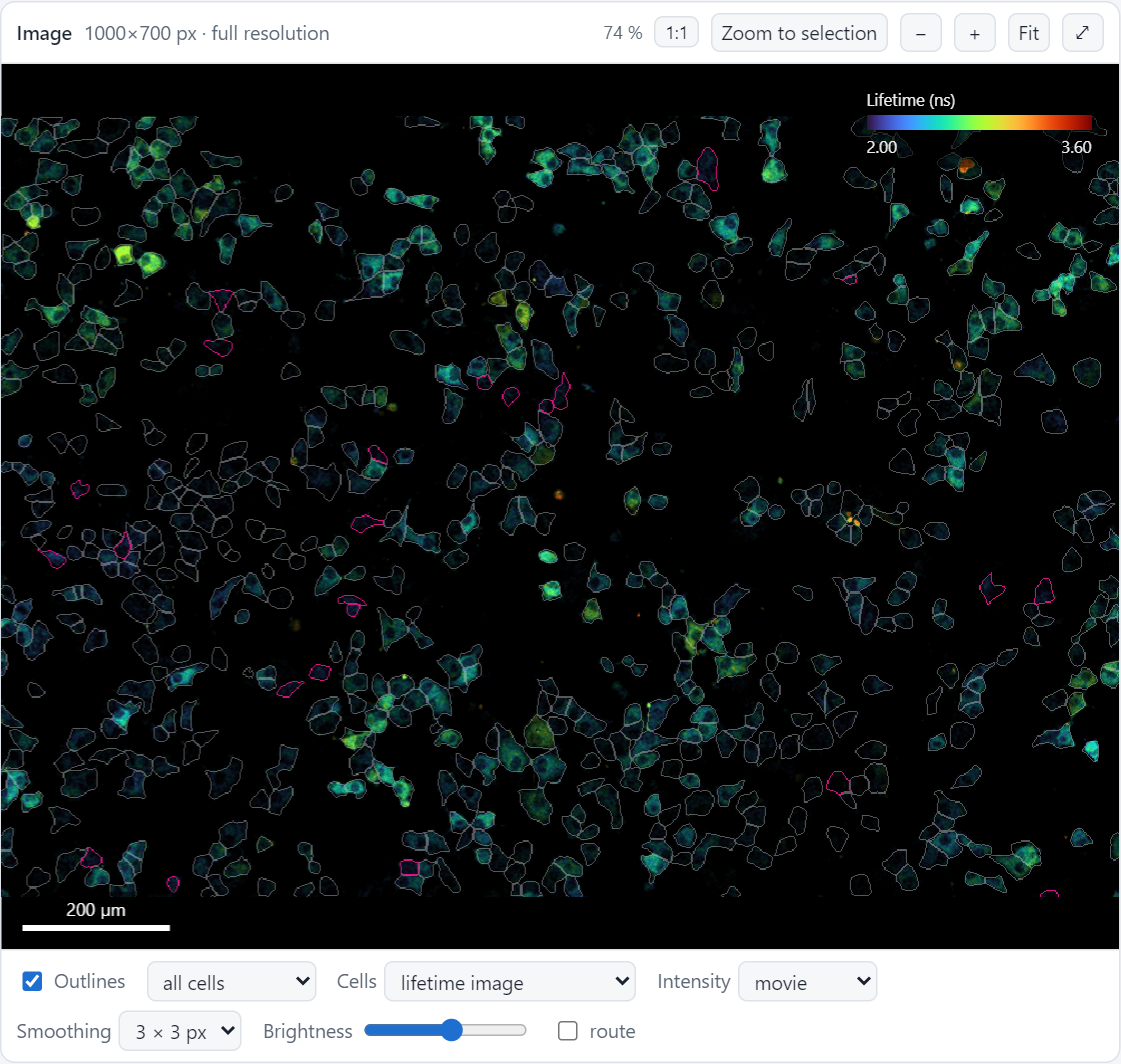
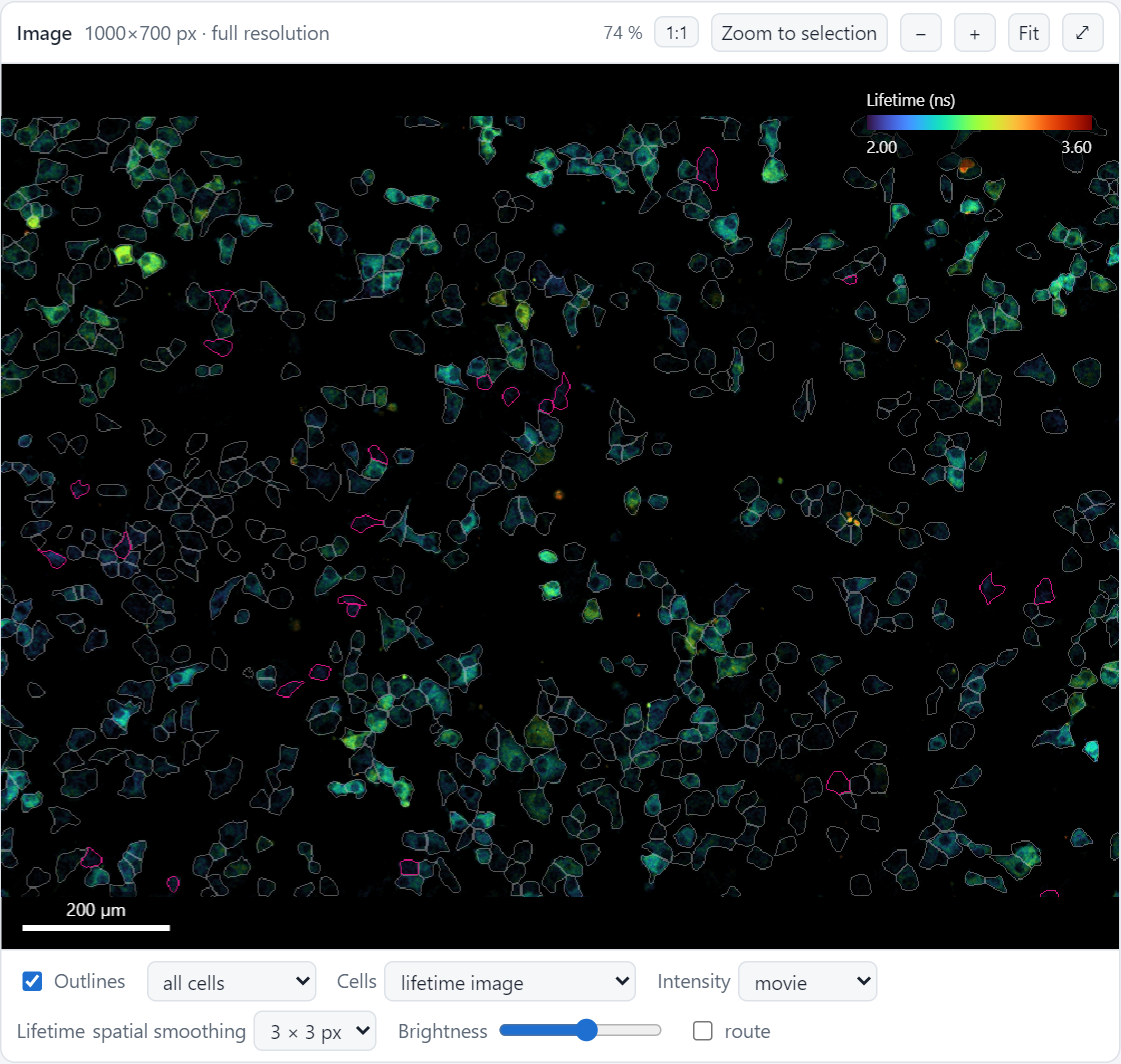
Dashboard: 'time smoothing' (Timing) and 'Lifetime/Ratio/Intensity spatial smoothing' (under the image), a note in the image when time smoothing is on; settings: both in one Smoothing group, the same names and steps; re-apply keeps the gates, criteria and colour range of a sample of another image ty

Changed region(s): [[0.0, 0.9615, 0.5932, 0.9925], [0.6557, 0.9615, 0.6869, 0.9925]]

diff --git a/src/fast_hippos/templates/dashboard/page.html b/src/fast_hippos/templates/dashboard/page.html
@@ -49,7 +49,7 @@
           <label title="Frames skipped between the stimulation or calibration and the window">margin <input id="rm" type="number" min="0" step="1" class="w3"></label>
         </div>
         <div class="row">
-          <label class="slider" title="Average each trace over neighbouring frames to reduce noise: radius in frames (1 = average of 3 frames). Used for the metrics and the smoothed traces">smoothing <input id="sm" type="range" min="0" max="10" step="1"><span id="smv" class="val"></span></label>
+          <label class="slider" title="Average over neighbouring frames to reduce noise: ± this number of frames (1 = the mean of 3 frames). Used for the metrics, the smoothed traces and the colours of the image (while the traces show the smoothed values)">time smoothing <input id="sm" type="range" min="0" max="10" step="1"><span id="smv" class="val"></span></label>
           <label class="slider" title="Rise time = number of frames until a cell reaches this fraction of its maximal response (used by the rise_time_frames metric)">rise <input id="rf" type="range" min="0.5" max="0.95" step="0.05"><span id="rfv" class="val"></span></label>
         </div>
       </div>
@@ -90,9 +90,9 @@
       <div id="loading"></div></div>
     <div class="panel-f">
       <label title="Show or hide the cell outlines (O)"><input type="checkbox" id="voutl" checked> Outlines</label><select id="outl" title="Which cell outlines are drawn: only the selected cells, the hits, or all cells"><option value="none">selection only</option><option value="hits">hits</option><option value="all">all cells</option></select>
-      <label title="Fill every cell with a colour for one of its values (e.g. its response), to see spatial patterns. Off = the lifetime image itself">Cells <select id="vfill"></select></label>
+      <label title="Fill every cell with a colour for one of its values (e.g. its response), to see spatial patterns. The first choice = the image itself">Cells <select id="vfill"></select></label>
       <label title="Brightness from the current frame (movie) or from the average over all frames (projection, less noisy)">Intensity <select id="isrc"><option value="movie">movie</option><option value="projection">projection</option></select></label>
-      <label title="Spatial smoothing of the lifetime colours (the brightness stays sharp): the mean over a square of pixels around each pixel, which makes the colours less noisy. Over time the image is smoothed as the traces are (Smooth traces under Timing, while the traces show the smoothed values). Only for display: the cell values do not change.">Smoothing <select id="vsmooth"><option value="0">off</option><option value="1">3 × 3 px</option><option value="2">5 × 5 px</option><option value="3">7 × 7 px</option></select></label>
+      <label title="Spatial smoothing of the lifetime colours (the brightness stays sharp): the mean over a square of pixels around each pixel, which makes the colours less noisy. Over time the image is smoothed as the traces are (Smooth traces under Timing, while the traces show the smoothed values). Only for display: the cell values do not change."><span id="vsmoothl">Lifetime</span> spatial smoothing <select id="vsmooth"><option value="0">off</option><option value="1">3 × 3 px</option><option value="2">5 × 5 px</option><option value="3">7 × 7 px</option></select></label>
       <label class="slider" title="Brightness of the image">Brightness <input id="bright" type="range" min="-1" max="1.2" step="0.01" value="0.2"></label>
       <label title="Draw the stage route of the .rgn files over the image"><input id="vroute" type="checkbox"> route</label>
     </div>

diff --git a/src/fast_hippos/templates/gui.html b/src/fast_hippos/templates/gui.html
@@ -275,7 +275,7 @@ function widget(f) {
     case "int": return num("1");
     case "float": return num("any");
     case "boolselect": return `<select id="${id}">${Object.entries(f.choices).map(([k, l]) => `<option value="${k}" ${String(!!v) === k ? "selected" : ""}>${esc(l)}</option>`).join("")}</select>`;
-    case "select": return `<select id="${id}">${Object.entries(f.choices).map(([k, l]) => `<option value="${esc(k)}" ${same(k, v) ? "selected" : ""}>${esc(l)}</option>`).join("")}</select>`;
+    case "select": return `<select id="${id}">${Object.entries(f.choices).map(([k, l]) => `<option value="${esc(k)}" ${same(k, v) || (f.num && +k === +v) ? "selected" : ""}>${esc(l)}</option>`).join("")}</select>`;
     case "frame": {
       const ff = fileFacts(), max = Number.isFinite(ff.frames) ? ff.frames - 1 : "";
       return `<div class="row"><input id="${id}" type="number" step="1" min="0" max="${max}" value="${v ?? ""}" placeholder="automatic" data-num="int"><span class="muted">${max !== "" ? "0–" + max : ""}</span></div>`;
@@ -558,6 +558,7 @@ function readInput(el) {
     v = a === "" && b === "" ? null : [a === "" ? null : +a, b === "" ? null : +b];
   } else if (f.kind === "intlist") v = el.value.trim() ? el.value.split(/[,\s]+/).filter(Boolean).map(Number) : null;
   else if (f.kind === "model") v = el.tagName === "SELECT" ? (el.value === "__custom" ? "" : el.value) : el.value;
+  else if (f.num && f.kind === "select") v = +el.value;
   else if (el.dataset.num) v = el.value === "" ? (f.optional ? null : f.default) : (el.dataset.num === "int" ? parseInt(el.value, 10) : parseFloat(el.value));
   else v = el.value === "" && f.optional ? null : el.value;
   set(f.key, v);
@@ -726,11 +727,14 @@ $("bNewSample").onclick = () => {
 $("bReapplyAll").onclick = async () => {
   let x; try { x = await api("experiment", { path: S.input.experiment, settings: S }); } catch (e) { toast(e.message, 6000); return; }
   if (!x.samples.length) { toast("No samples (runs) in the experiment folder", 5000); return; }
+  const otherType = Object.entries(x.differs || {}).filter(([, ks]) => ks.includes("input.modality")).map(([n]) => n);
   if (!confirm(`Re-apply to all ${plural(x.samples.length, "sample")} of the experiment in\n${S.input.experiment}:\n\n`
       + bulletList(x.samples.map(s => s.name + (s.label ? ` (${s.label})` : "")), 20) + "\n\nThe stimulation, screening and display settings "
       + "of this window are used for every sample (except the dashboard size and tiles and the stage positions file, "
       + "which only change with a new run). Each sample keeps its own images, segmentation and traces, its sample label and the "
-      + "own settings of its single images. Then the experiment overview is updated.\n\nContinue?")) return;
+      + "own settings of its single images. Then the experiment overview is updated."
+      + (otherType.length ? `\n\nOf another image type than this window: ${otherType.join(", ")}. They keep their quality gates, hit criteria and colour range (in the units of their values).` : "")
+      + "\n\nContinue?")) return;
   let r; try { r = await api("run", { settings: S, experiment: true }); } catch (e) { toast(e.message, 6000); return; }
   JOB = { n: 0, state: "running", run_id: r.run_id }; $("log").innerHTML = ""; $("results").innerHTML = "";
 };

diff --git a/src/fast_hippos/templates/dashboard/viewer.js b/src/fast_hippos/templates/dashboard/viewer.js
@@ -271,6 +271,16 @@ function drawViewerHov() {
   if (S.showRoute && SCR.route) drawRoute(x);
   if (D.pixel_size) drawScaleBar(x, w, h);  // always
   drawLocator(x, w, h);
+  drawTimeNote(x, w, h);
+}
+// the image is smoothed over time with the traces (Timing, far from the image): say so in the image
+function drawTimeNote(x, w, h) {
+  const r = Math.floor(SCR.params.smooth_traces || 0);
+  if (!(r > 0) || S.tsrc !== "smoothed" || V.smoothed_xy === null || V.smoothed_xy === undefined) return;
+  const t = `time smoothing ± ${r} frame${r === 1 ? "" : "s"}`;
+  x.font = "11px system-ui"; const tw = x.measureText(t).width;
+  x.fillStyle = "rgba(0,0,0,.45)"; x.fillRect(w - tw - 18, h - 24, tw + 10, 17);
+  x.fillStyle = "rgba(255,255,255,.8)"; x.textAlign = "right"; x.fillText(t, w - 13, h - 12); x.textAlign = "start";
 }
 // where the view is in the image, when zoomed in: the whole image as a small frame, the visible part inside it
 function drawLocator(x, w, h) {
@@ -402,6 +412,7 @@ function initViewer() {
   $("voutl").onchange = () => { S.showOutl = $("voutl").checked; $("outl").disabled = !S.showOutl; invalidate("viewerSel"); };
   $("isrc").onchange = () => { S.isrc = $("isrc").value; imageChanged(); };
   $("vsmooth").value = String(S.smoothxy);
+  $("vsmoothl").textContent = D.is_lifetime ? "Lifetime" : String(D.unit).startsWith("Ratio") ? "Ratio" : "Intensity";
   $("vsmooth").onchange = () => { S.smoothxy = +$("vsmooth").value; imageChanged(); };
   if (V.smoothed_xy === null || V.smoothed_xy === undefined) {  // an older run: the smoothing is in the data
     $("vsmooth").disabled = true; $("vsmooth").closest("label").title = "This dashboard was made by an older version, with the smoothing of the run "
@@ -409,7 +420,7 @@ function initViewer() {
   }
   $("bright").oninput = () => { S.bright = Math.pow(10, +$("bright").value); imageChanged(); };
   $("vroute").checked = S.showRoute; $("vroute").onchange = () => { S.showRoute = $("vroute").checked; invalidate("viewerHov"); };
-  const fm = $("vfill"); fm.add(new Option("lifetime image", "")); METRIC_KEYS.forEach(k => fm.add(new Option(k, k)));
+  const fm = $("vfill"); fm.add(new Option(`${$("vsmoothl").textContent.toLowerCase()} image`, "")); METRIC_KEYS.forEach(k => fm.add(new Option(k, k)));
   fm.onchange = () => { S.fillMetric = fm.value; fillsChanged(); };
   $("v100").onclick = () => { const r = vwrap.getBoundingClientRect(); zoomAt(r.width / 2, r.height / 2, 1 / viewTarget().s); };
   hitRGB = hexToRgb(css("--hit"));

diff --git a/src/fast_hippos/templates/dashboard/screenui.js b/src/fast_hippos/templates/dashboard/screenui.js
@@ -155,7 +155,7 @@ function fillParams() {
   if (full) p.response_window = null;
   setWinMode(full ? "full" : "n"); $("rw").value = full ? 3 : p.response_window; $("rw").disabled = full;
   setAnchor(p.response_window_anchor); $("rm").value = p.response_window_margin;
-  $("sm").value = p.smooth_traces; $("smv").textContent = p.smooth_traces ? `r = ${p.smooth_traces}` : "off";
+  $("sm").value = p.smooth_traces; $("smv").textContent = p.smooth_traces ? `± ${p.smooth_traces}` : "off";
   $("rf").value = p.rise_time_fraction; $("rfv").textContent = `${Math.round(p.rise_time_fraction * 100)} %`;
   document.querySelectorAll(".gunit").forEach(e => { e.textContent = D.is_lifetime ? "ns" : ""; });
   const seed = gateSeed();
@@ -179,7 +179,7 @@ function initScreening() {
   $("evauto").onclick = () => { Object.assign(e, structuredClone(D.screen.events)); eventsTouched = false; fillEventInputs(); recompute(); };
   $("rw").oninput = () => { if (p.response_window > 0) { p.response_window = Math.max(1, numOrNull($("rw")) ?? 3); scheduleRecompute(); } };
   $("rm").oninput = () => { p.response_window_margin = Math.max(0, numOrNull($("rm")) ?? 0); scheduleRecompute(); };
-  $("sm").oninput = () => { p.smooth_traces = +$("sm").value; $("smv").textContent = p.smooth_traces ? `r = ${p.smooth_traces}` : "off"; if (p.smooth_traces > 0) { S.tsrc = "smoothed"; $("tsrc").value = "smoothed"; } scheduleRecompute(); };
+  $("sm").oninput = () => { p.smooth_traces = +$("sm").value; $("smv").textContent = p.smooth_traces ? `± ${p.smooth_traces}` : "off"; if (p.smooth_traces > 0) { S.tsrc = "smoothed"; $("tsrc").value = "smoothed"; } scheduleRecompute(); };
   $("rf").oninput = () => { p.rise_time_fraction = +$("rf").value; $("rfv").textContent = `${Math.round(p.rise_time_fraction * 100)} %`; scheduleRecompute(); };
   const readGates = () => {
     const seed = gateSeed();

diff --git a/src/fast_hippos/templates/dashboard/style.css b/src/fast_hippos/templates/dashboard/style.css
@@ -24,7 +24,7 @@ main { display: grid; gap: 12px; padding: 12px 16px 24px;
 #vbar { position: absolute; right: 10px; top: 10px; background: rgba(0,0,0,.55); padding: 6px 8px; border-radius: 6px; color: #eee; font-size: 11px; pointer-events: none; }
 #vbar canvas { position: static; display: block; width: 150px; height: 10px; margin: 3px 0; }
 #vbar .ends { display: flex; justify-content: space-between; }
-#loading { position: absolute; right: 10px; bottom: 10px; color: #ddd; font-size: 11px; background: rgba(0,0,0,.55); padding: 2px 7px; border-radius: 5px; }
+#loading { position: absolute; right: 10px; bottom: 32px; color: #ddd; font-size: 11px; background: rgba(0,0,0,.55); padding: 2px 7px; border-radius: 5px; }
 #loading:empty { display: none; }
 .traces .stack { height: 300px; flex: none; } .kymo .stack { height: 260px; flex: none; }
 .dist .stack { height: 300px; flex: none; } .scatter .stack { height: 260px; flex: none; }

diff --git a/src/fast_hippos/templates/dashboard/traces.js b/src/fast_hippos/templates/dashboard/traces.js
@@ -64,7 +64,7 @@ function drawTraces() {
   for (const [f, name] of [[ev.stimulation, "stim"], [ev.calibration, "cal"]]) if (f !== null && f !== undefined && !ev.baseline_only) { const x = TP.X(eventX(f)); ctx.beginPath(); ctx.moveTo(x, TP.m.t); ctx.lineTo(x, TP.m.t + TP.ph); ctx.stroke(); ctx.fillText(name, x + 3, TP.m.t + 10); }
   ctx.restore();
   const what = S.tmode === "bands" ? "median, 50/80 %" : S.tmode === "density" ? "density, median" : "median";
-  $("trinfo").textContent = `${nvis} cells · ${what}` + (S.tsrc === "smoothed" ? ` · smoothed r=${SCR.params.smooth_traces}` : "");
+  $("trinfo").textContent = `${nvis} cells · ${what}` + (S.tsrc === "smoothed" ? ` · time smoothing ± ${SCR.params.smooth_traces} frames` : "");
 }
 function traceLine(ctx, i, col, w) {
   const k = K(); ctx.strokeStyle = col; ctx.lineWidth = w; ctx.beginPath(); let pen = false;

diff --git a/src/fast_hippos/gui.py b/src/fast_hippos/gui.py
@@ -143,8 +143,9 @@ FIELDS: dict[str, dict] = {
     "display.max_lifetime": {"label": "Maximum", "help": "Empty = from the data"},
     "display.lut": {"label": "Lookup table", "choices": {k: k for k in
         ["turbo", "viridis", "plasma", "magma", "inferno", "cividis", "gray"]}},
-    "display.smooth_traces": {"label": "Smooth traces (frames)", "help": "Temporal box radius, also used for hit detection"},
-    "display.overlay_smooth_xy": {"label": "Image smoothing (px)"},
+    "display.smooth_traces": {"label": "Time smoothing (± frames)", "help": "Traces, hit detection and the dashboard image"},
+    "display.overlay_smooth_xy": {"label": "Lifetime spatial smoothing", "num": True,
+        "choices": {"0": "off", "1": "3 × 3 px", "2": "5 × 5 px", "3": "7 × 7 px"}},
     "display.dashboard_max_size": {"label": "Dashboard overview size (px)"},
     "display.dashboard_tiles": {"label": "Full-resolution tiles for large images"},
     "display.save_png_plots": {"label": "Save PNG plots"},
@@ -318,11 +319,12 @@ TIPS: dict[str, str] = {
     "display.max_lifetime": "Upper end of the colour scale and lifetime axes. Empty = from the data (99th "
         "percentile).",
     "display.lut": "Colour scale for lifetime images and plots.",
-    "display.smooth_traces": "Average each trace over neighbouring frames to reduce noise: radius in frames (1 = "
-        "average of 3 frames). Also used for the hit criteria. 0 = no smoothing.",
-    "display.overlay_smooth_xy": "Spatial smoothing (radius in pixels; 1 = the mean of 3 × 3 pixels) of the lifetime "
-        "colours of the image in the dashboard: how it starts, changeable there (Smoothing, under the image). Over "
-        "time the image is smoothed as the traces are (Smooth traces). Only for display. 0 = none.",
+    "display.smooth_traces": "Average over neighbouring frames to reduce noise: ± this number of frames (1 = the "
+        "mean of 3 frames). Used for the traces, the hit criteria and the lifetime colours of the dashboard image. "
+        "Changeable in the dashboard (time smoothing, under Timing). 0 = no smoothing.",
+    "display.overlay_smooth_xy": "The mean over a square of pixels around each pixel, for the lifetime (or ratio) "
+        "colours of the image in the dashboard: less noisy colours, while the brightness stays sharp. Only for "
+        "display. How the dashboard starts; changeable there (under the image).",
 
     "display.histogram_bins": "Number of bars in the histograms of the dashboard.",
     "display.dashboard": "Make an interactive dashboard (HTML page) per image, to explore cells, traces and hits.",
@@ -453,7 +455,6 @@ LAYOUT = [
                                                        "events.baseline_only", "events.no_calibration"],
      "advanced": [
          ("Automatic detection", ["events.sensitivity", "events.margin"]),
-         ("Traces", ["display.smooth_traces"]),
      ]},
     {"title": "Screening", "basic": ["screening.enabled", "screening.criteria", "screening.classify_additional_channel"],
      "advanced": [
@@ -474,7 +475,7 @@ LAYOUT = [
      "note": "The defaults suit most runs; colours and ranges can also be changed in the dashboard.",
      "advanced": [
          ("Colour scale", ["display.lut", "|", "display.min_lifetime", "display.max_lifetime"]),
-         ("Lifetime overlay", ["display.overlay_smooth_xy"]),
+         ("Smoothing", ["display.smooth_traces", "display.overlay_smooth_xy"]),
          ("Dashboard", ["display.dashboard", "|", "display.dashboard_max_size", "display.dashboard_max_megapixels",
                         "|", "display.dashboard_tiles", "display.histogram_bins"]),
          ("Dashboard views", ["display.traces_view", "|", "display.scatter_x", "display.scatter_log_x", "|",

diff --git a/src/fast_hippos/pipeline.py b/src/fast_hippos/pipeline.py
@@ -228,6 +228,8 @@ def reapply_experiment(experiment: Path, changes: dict) -> list[str]:
 RUN_FILE = "run.json"  # the images of the run in an output folder, its input files and the files it wrote next to them
 PREVIOUS_RUN = "_previous_run"  # where the last complete run waits while a new run is running (removed when it is done)
 REAPPLY_SECTIONS = ("events", "screening", "display")  # what a re-apply may change
+# settings in the units of the values (ns, a ratio, an intensity): not taken over from settings of another image type
+UNIT_SETTINGS = {"screening": (*GATES, "criteria"), "display": ("min_lifetime", "max_lifetime")}
 # settings in those sections that only take effect in a full run (overlay, dashboard image, stage positions): a re-apply
 # keeps the values of the run, so that the record of the run stays true
 RUN_TIME_ONLY = {"display": ("dashboard_max_size", "dashboard_max_megapixels",
@@ -390,7 +392,7 @@ def reapply_settings(out: Path, changes: dict) -> dict:
     if not used.exists() or not run_info(out):
         raise ValueError(f"No analysis results in {out}: run the analysis first")
     base = json.loads(used.read_text())
-    run_gates = {k: base.get("screening", {}).get(k) for k in GATES if k in base.get("screening", {})}
+    own_units = {sec: {k: base[sec][k] for k in keys if k in base.get(sec, {})} for sec, keys in UNIT_SETTINGS.items()}
     for section in REAPPLY_SECTIONS:
         if isinstance(changes.get(section), dict):
             kept = {k: base.get(section, {})[k] for k in RUN_TIME_ONLY.get(section, ()) if k in base.get(section, {})}
@@ -400,10 +402,12 @@ def reapply_settings(out: Path, changes: dict) -> dict:
     for key in ("experiment", "sample_label"):  # labels, not analysis settings: a re-apply may set them (an empty
         if (changes.get("input") or {}).get(key):  # one, e.g. from a settings file without them, keeps the run's)
             base["input"][key] = changes["input"][key]
-    # settings of another image type (e.g. of a lifetime sample, for a ratio sample): the run keeps its quality gates
+    # settings of another image type (e.g. of a lifetime sample, for a ratio sample): the run keeps the settings that
+    # are in the units of its values (quality gates, hit criteria, colour range)
     src = (changes.get("input") or {}).get("modality")
     if src and src != base["input"].get("modality"):
-        base.setdefault("screening", {}).update(run_gates)
+        for sec, values in own_units.items():
+            base.setdefault(sec, {}).update(values)
     # an experiment folder that was moved or copied: the folder the sample is in now
     exp = base["input"].get("experiment")
     if exp and Path(exp).resolve() != out.parent and _is_experiment(out.parent):

diff --git a/tests/test_experiment.py b/tests/test_experiment.py
@@ -146,7 +146,9 @@ def test_reapply_keeps_the_gates_of_another_image_type(experiment, tmp_path):
     s.screening.criteria = [Criterion("response_max_diff", ">", 0.4)]
     merged = reapply_settings(ratio, s.to_dict())
     assert merged["screening"]["baseline_calibration_diff"] is None and merged["screening"]["max_baseline_deviation"] is None
-    assert merged["screening"]["criteria"][0]["value"] == 0.4
+    assert merged["screening"]["criteria"] == used["screening"]["criteria"]  # in the units of the ratio sample
+    s.display.min_lifetime, s.display.max_lifetime = 2.0, 3.6
+    assert reapply_settings(ratio, s.to_dict())["display"]["min_lifetime"] == used["display"]["min_lifetime"]
     # the experiment folder was copied: the sample now belongs to the folder it is in, when that is an experiment
     assert merged["input"]["experiment"] == str(experiment)  # tmp_path/exp has no experiment overview
     shutil.copy(experiment / "index.html", tmp_path / "exp" / "index.html")

diff --git a/manual/reference/settings.md b/manual/reference/settings.md
@@ -117,11 +117,6 @@ Every setting of the FAST-HIPPOS window, in the order of the window: first the s
 <tr data-search="margin (frames) events.margin frames left out just before each transition (end of the baseline and end of the response), because the change may already start there."><td><b>Margin (frames)</b><br><code class="fh-key">events.margin</code></td><td>Frames left out just before each transition (end of the baseline and end of the response), because the change may already start there.</td><td>1</td></tr>
 </tbody></table>
 
-<h3 class="fh-group">Advanced: Traces</h3>
-<table class="fh-settings"><thead><tr><th>Setting</th><th>What it does</th><th>Default</th></tr></thead><tbody>
-<tr data-search="smooth traces (frames) display.smooth_traces average each trace over neighbouring frames to reduce noise: radius in frames (1 = average of 3 frames). also used for the hit criteria. 0 = no smoothing."><td><b>Smooth traces (frames)</b><br><code class="fh-key">display.smooth_traces</code></td><td>Average each trace over neighbouring frames to reduce noise: radius in frames (1 = average of 3 frames). Also used for the hit criteria. 0 = no smoothing.</td><td>0.0</td></tr>
-</tbody></table>
-
 ## Screening
 
 <h3 class="fh-group">Always shown</h3>
@@ -199,9 +194,10 @@ Every setting of the FAST-HIPPOS window, in the order of the window: first the s
 <tr data-search="maximum display.max_lifetime upper end of the colour scale and lifetime axes. empty = from the data (99th percentile)."><td><b>Maximum</b><br><code class="fh-key">display.max_lifetime</code></td><td>Upper end of the colour scale and lifetime axes. Empty = from the data (99th percentile).</td><td>empty</td></tr>
 </tbody></table>
 
-<h3 class="fh-group">Advanced: Lifetime overlay</h3>
+<h3 class="fh-group">Advanced: Smoothing</h3>
 <table class="fh-settings"><thead><tr><th>Setting</th><th>What it does</th><th>Default</th></tr></thead><tbody>
-<tr data-search="image smoothing (px) display.overlay_smooth_xy spatial smoothing (radius in pixels; 1 = the mean of 3 × 3 pixels) of the lifetime colours of the image in the dashboard: how it starts, changeable there (smoothing, under the image). over time the image is smoothed as the traces are (smooth traces). only for display. 0 = none."><td><b>Image smoothing (px)</b><br><code class="fh-key">display.overlay_smooth_xy</code></td><td>Spatial smoothing (radius in pixels; 1 = the mean of 3 × 3 pixels) of the lifetime colours of the image in the dashboard: how it starts, changeable there (Smoothing, under the image). Over time the image is smoothed as the traces are (Smooth traces). Only for display. 0 = none.</td><td>1.0</td></tr>
+<tr data-search="time smoothing (± frames) display.smooth_traces average over neighbouring frames to reduce noise: ± this number of frames (1 = the mean of 3 frames). used for the traces, the hit criteria and the lifetime colours of the dashboard image. changeable in the dashboard (time smoothing, under timing). 0 = no smoothing."><td><b>Time smoothing (± frames)</b><br><code class="fh-key">display.smooth_traces</code></td><td>Average over neighbouring frames to reduce noise: ± this number of frames (1 = the mean of 3 frames). Used for the traces, the hit criteria and the lifetime colours of the dashboard image. Changeable in the dashboard (time smoothing, under Timing). 0 = no smoothing.</td><td>0.0</td></tr>
+<tr data-search="lifetime spatial smoothing display.overlay_smooth_xy the mean over a square of pixels around each pixel, for the lifetime (or ratio) colours of the image in the dashboard: less noisy colours, while the brightness stays sharp. only for display. how the dashboard starts; changeable there (under the image)."><td><b>Lifetime spatial smoothing</b><br><code class="fh-key">display.overlay_smooth_xy</code></td><td>The mean over a square of pixels around each pixel, for the lifetime (or ratio) colours of the image in the dashboard: less noisy colours, while the brightness stays sharp. Only for display. How the dashboard starts; changeable there (under the image).<br><span class="fh-choices"><code>0</code> off · <code>1</code> 3 × 3 px · <code>2</code> 5 × 5 px · <code>3</code> 7 × 7 px</span></td><td>1.0</td></tr>
 </tbody></table>
 
 <h3 class="fh-group">Advanced: Dashboard</h3>

diff --git a/manual/guide/screen.md b/manual/guide/screen.md
@@ -85,7 +85,7 @@ this in two places:
 </figure>
 
 Not compared are the settings that do not change the results: the images and folders, the sample label, the
-display settings (except *Smooth traces*), the `.rgn` settings (file size, route, axes), the Cellpose environments,
+display settings (except *Time smoothing*), the `.rgn` settings (file size, route, axes), the Cellpose environments,
 hand-picked hits, and the [settings of single images](own-settings.md), which are deliberate differences. When the
 hit criteria differ, the *Cells* panel draws no threshold lines.
 
@@ -93,7 +93,7 @@ hit criteria differ, the *Cells* panel draws no threshold lines.
 display settings of the window to every sample, one after the other, and then updates the experiment overview once.
 Each sample keeps its own segmentation and traces, its sample label, its hand-picked hits and the settings of its
 single images; a sample of another image type (e.g. ratio data among lifetime samples) also keeps its quality
-gates. It takes seconds per sample. A sample that cannot be re-applied keeps its earlier results and settings; the
+gates, hit criteria and colour range, which are in the units of its values. It takes seconds per sample. A sample that cannot be re-applied keeps its earlier results and settings; the
 experiment overview names it, and `experiment_log.txt` says why. Settings that only a new run changes (segmentation, traces, image type, …) can only be
 made the same by running the sample again.
 

diff --git a/manual/guide/dashboard.md b/manual/guide/dashboard.md
@@ -49,9 +49,11 @@ the image without any outlines.
   zooming out stops there. *Zoom to selection* (++z++) zooms to the selected cells, or to the hits.
 - The percentage above the image is the current zoom; *1:1* (++1++) shows the image at 100 %, one image pixel per
   screen pixel. When zoomed in, a small frame at the top left shows where you are in the image.
-- *Smoothing* averages the lifetime colours over 3 × 3 pixels (or 5 × 5, 7 × 7, or off), which makes them less
-  noisy; the brightness stays sharp. Over time the image is smoothed as the traces are (*smoothing* under *Timing*,
-  while the traces show the smoothed values). Neither changes the values of the cells.
+- *Lifetime spatial smoothing* (*Ratio* or *Intensity* for those image types) averages the colours over 3 × 3
+  pixels (or 5 × 5, 7 × 7, or off), which makes them less noisy; the brightness stays sharp. Over time the image is
+  smoothed as the traces are (*time smoothing* under *Timing*, while the traces show the smoothed values); the image
+  then says so at the bottom right. Neither changes the values of the cells. The window sets how both start
+  (*Display and output → Advanced settings → Smoothing*).
 - *Cells* colours the cells by a value instead, for instance their response, so that you see where the responders
   are. *Intensity* plays the intensity as a movie, or shows its projection.
 - *route* shows the visiting order of the hits in the `.rgn` files.
